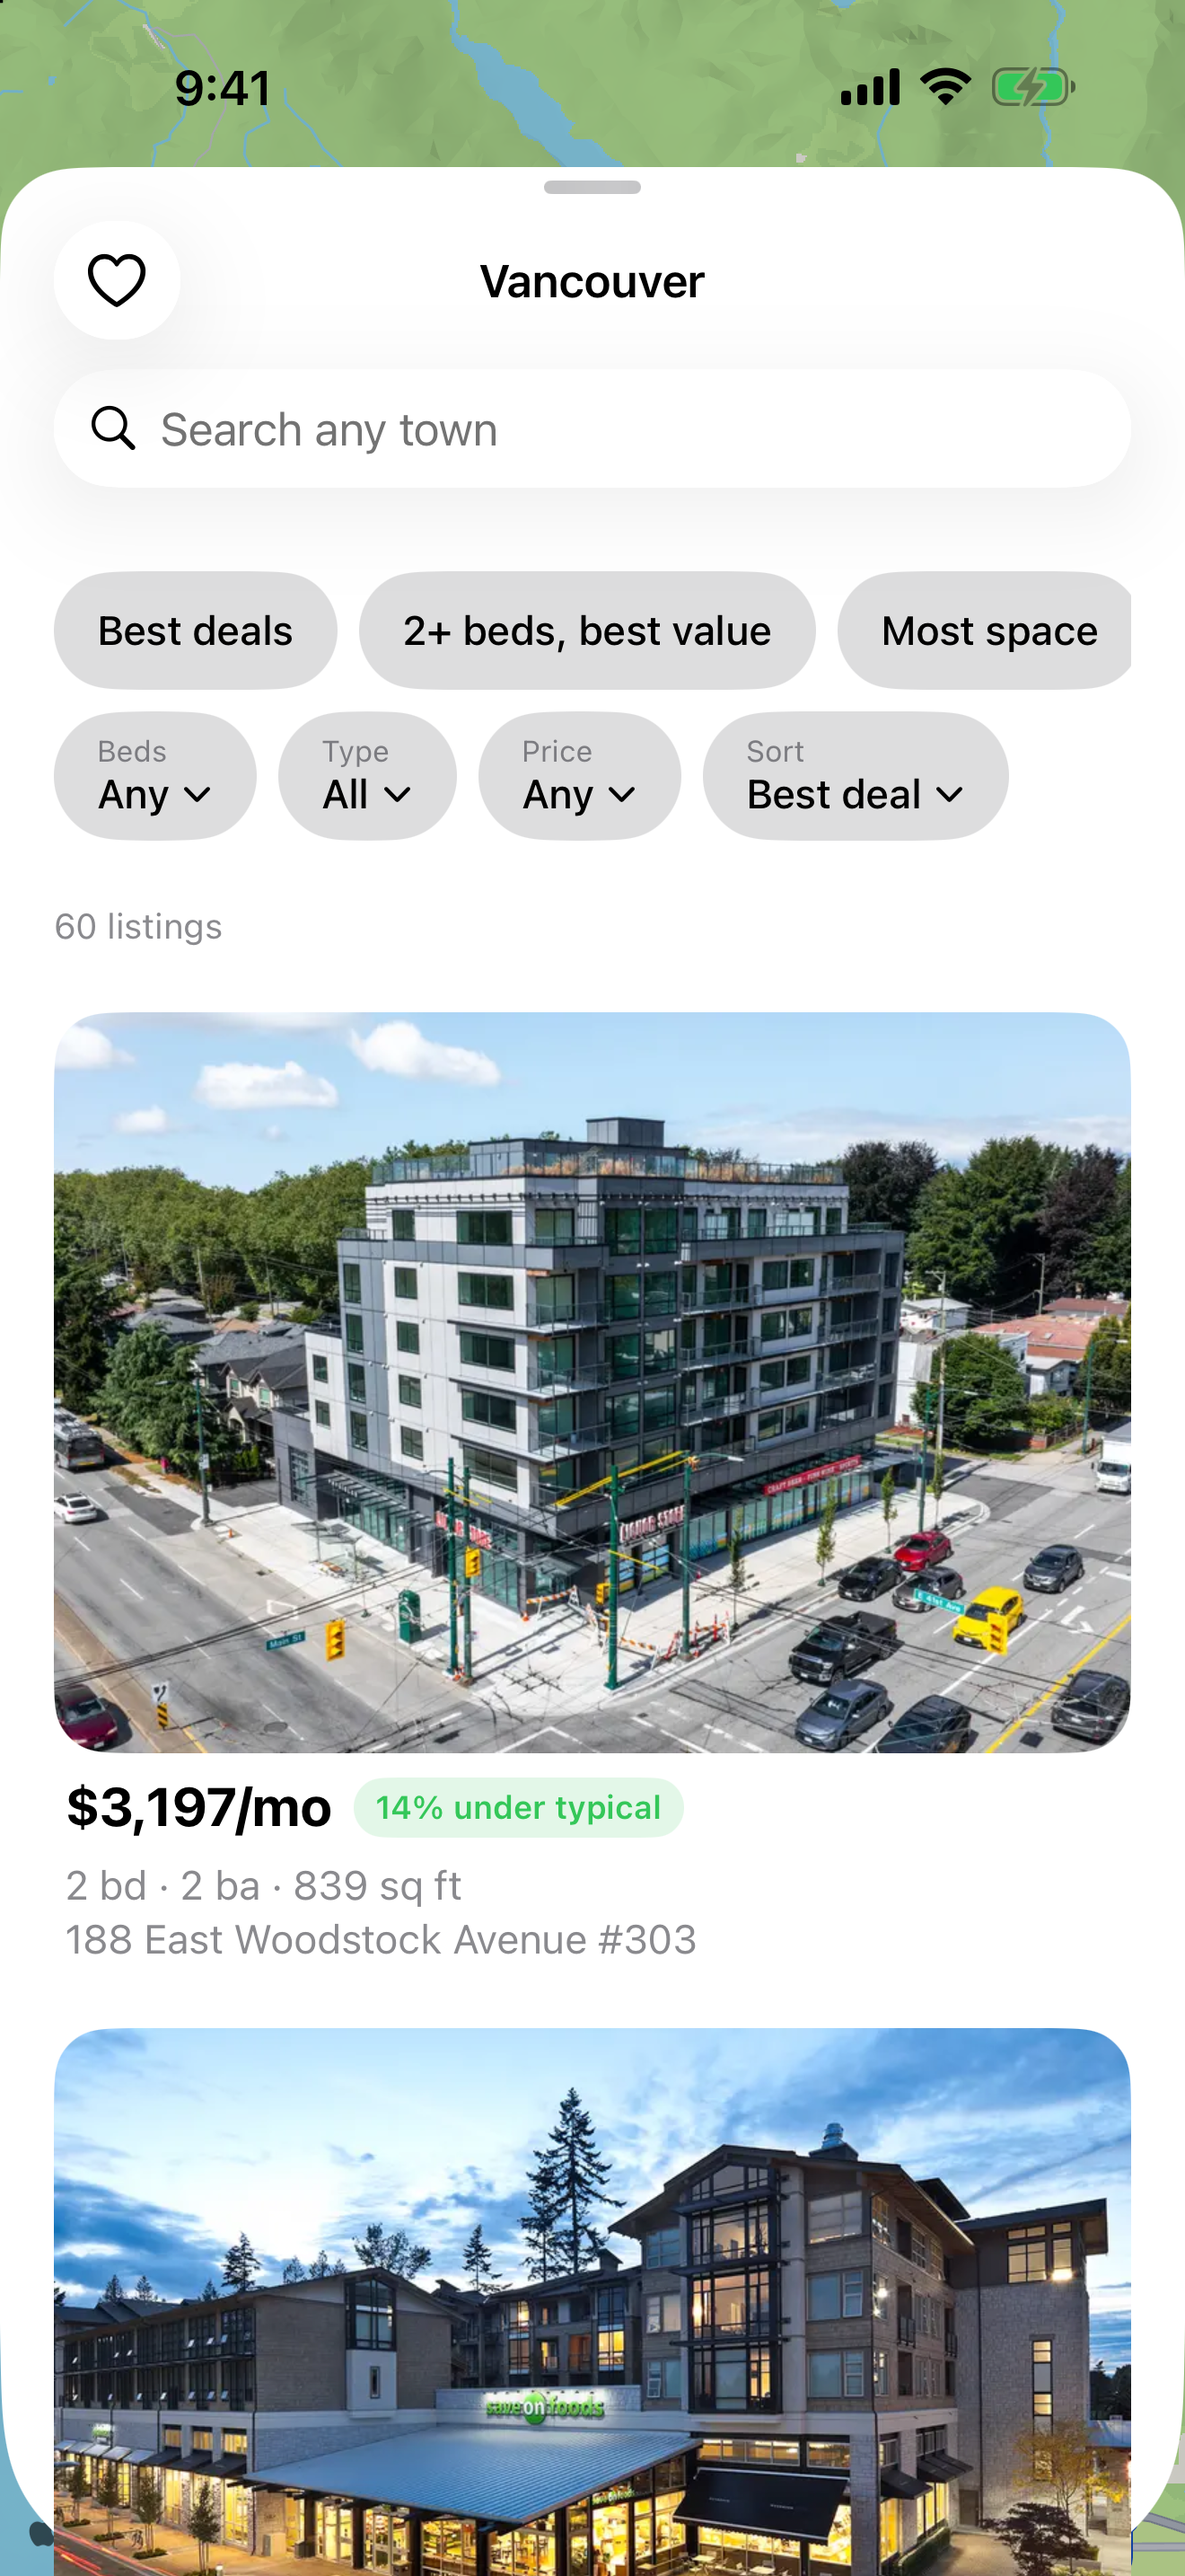
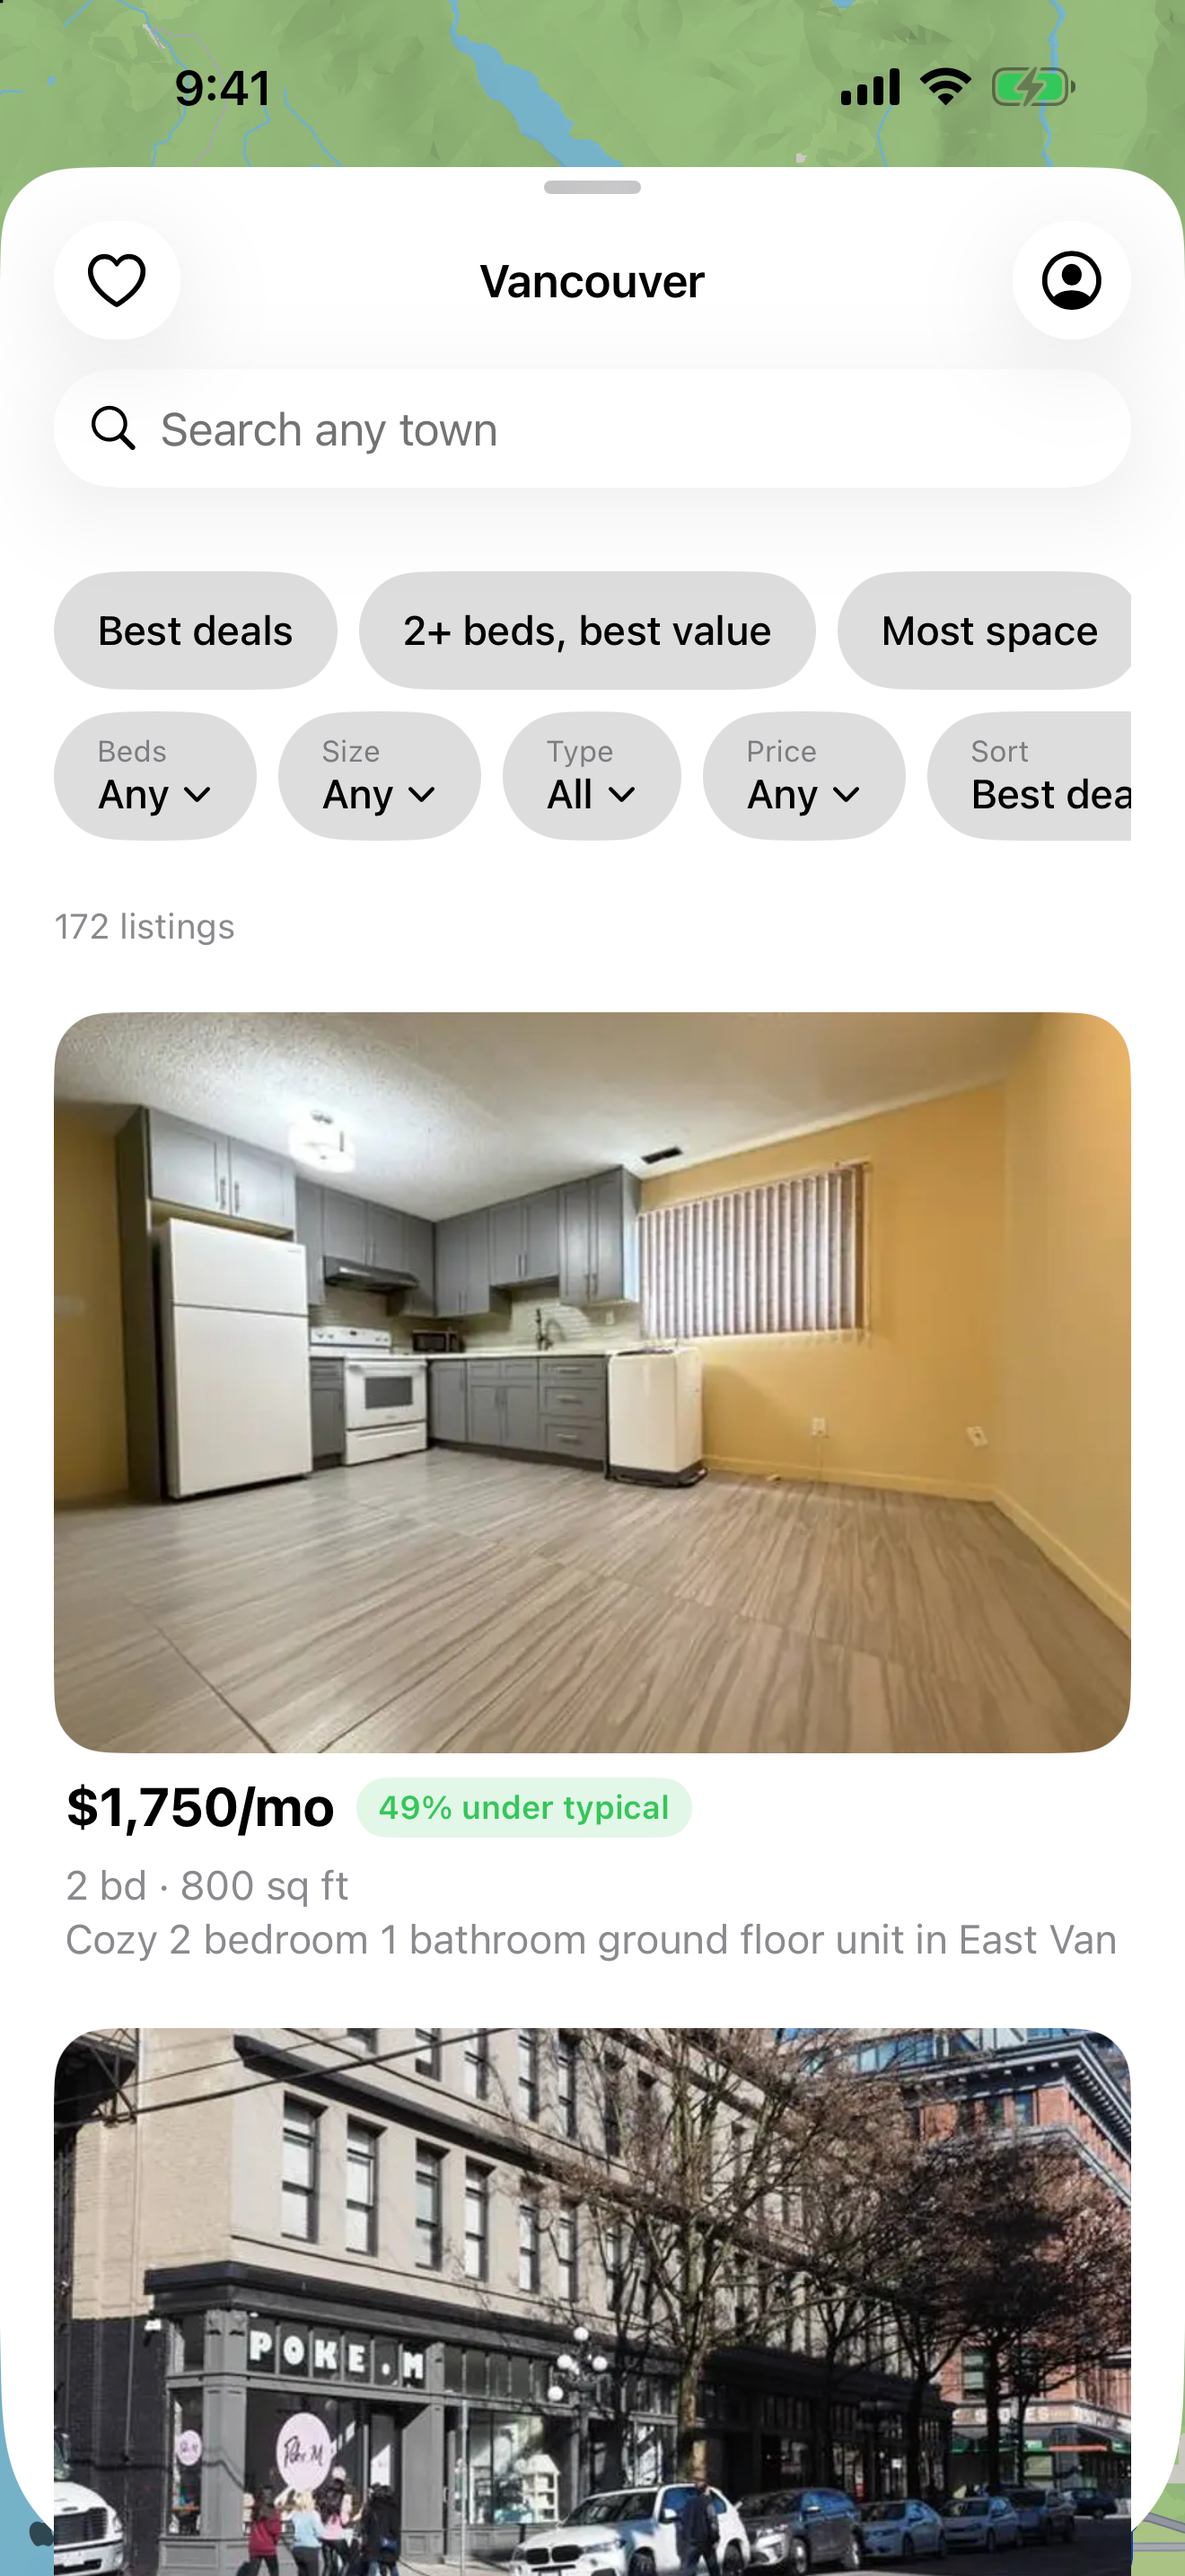
Refresh iPhone store screenshots (map, list, detail)
Claude-Session: https://claude.ai/code/session_01M7cFnchjKrWEuspCSkxig3

diff --git a/docs/LOOP-HANDOFF.md b/docs/LOOP-HANDOFF.md
@@ -19,7 +19,7 @@ The App Store push for Atlin (ex-Brick, ex-Roost). It watches the review queue, 
 1. Watch review for build 9. If Apple rejects, read the reason in Resolution Center, draft replies, and wait for Joshua's yes before sending anything.
 2. Real-device test of Sign in with Apple on a signed build.
 3. Native Google sign-in: iOS OAuth client, then build 10.
-4. More Mac screenshots (only one exists) and light-mode Mac shots. Promo video after that.
+4. iPhone store screenshots are refreshed in screenshots/ios (map, list, detail on the 6.9 inch size); upload them with build 10. Still to do: more Mac screenshots (only one exists) and light-mode Mac shots. Promo video after that.
 5. Ad-graphic photos on some NYC listings: swap for real photos or hide them.
 6. Docs pass on the README.
 7. Open issues: #13 (website login), #15 (compare to REW + Zillow), #16 (v1.1 native sync and deletion), #17 (brown color check), #18 to #21 (the roadmap items above).
